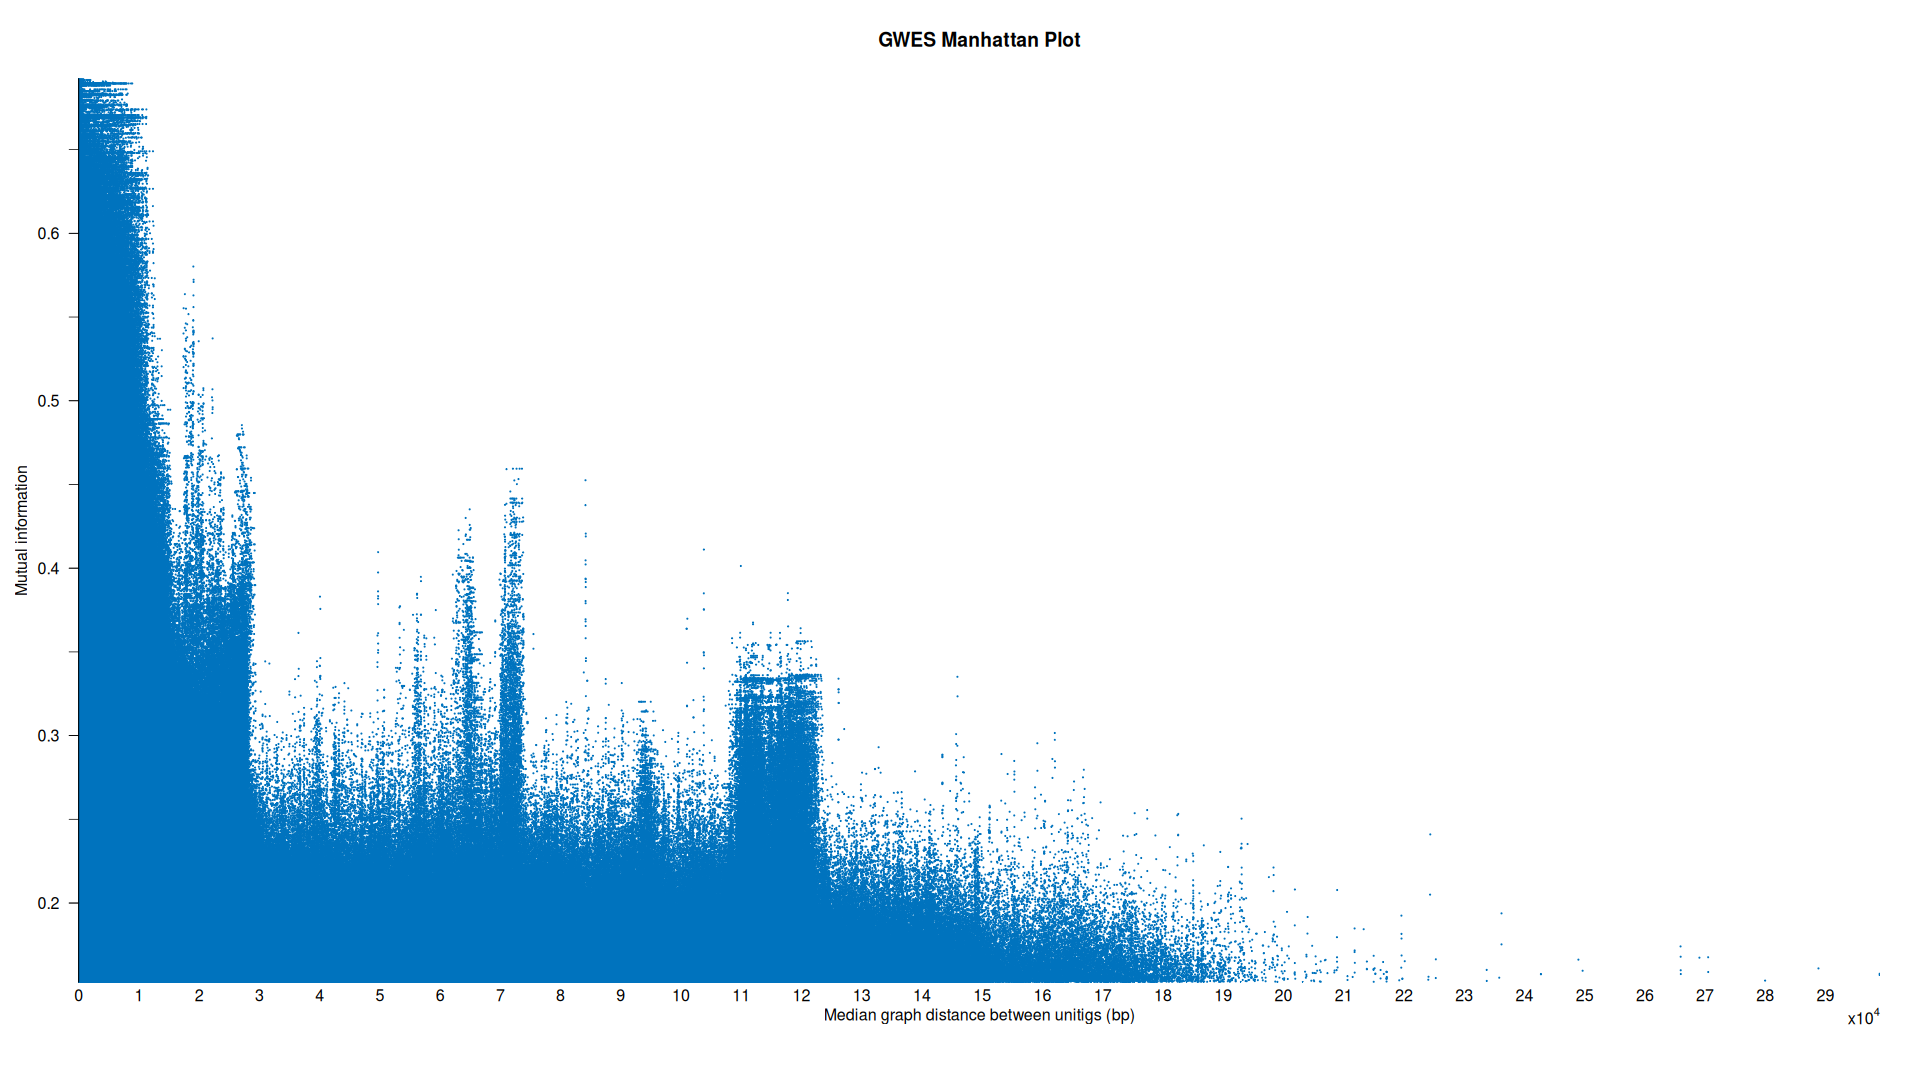
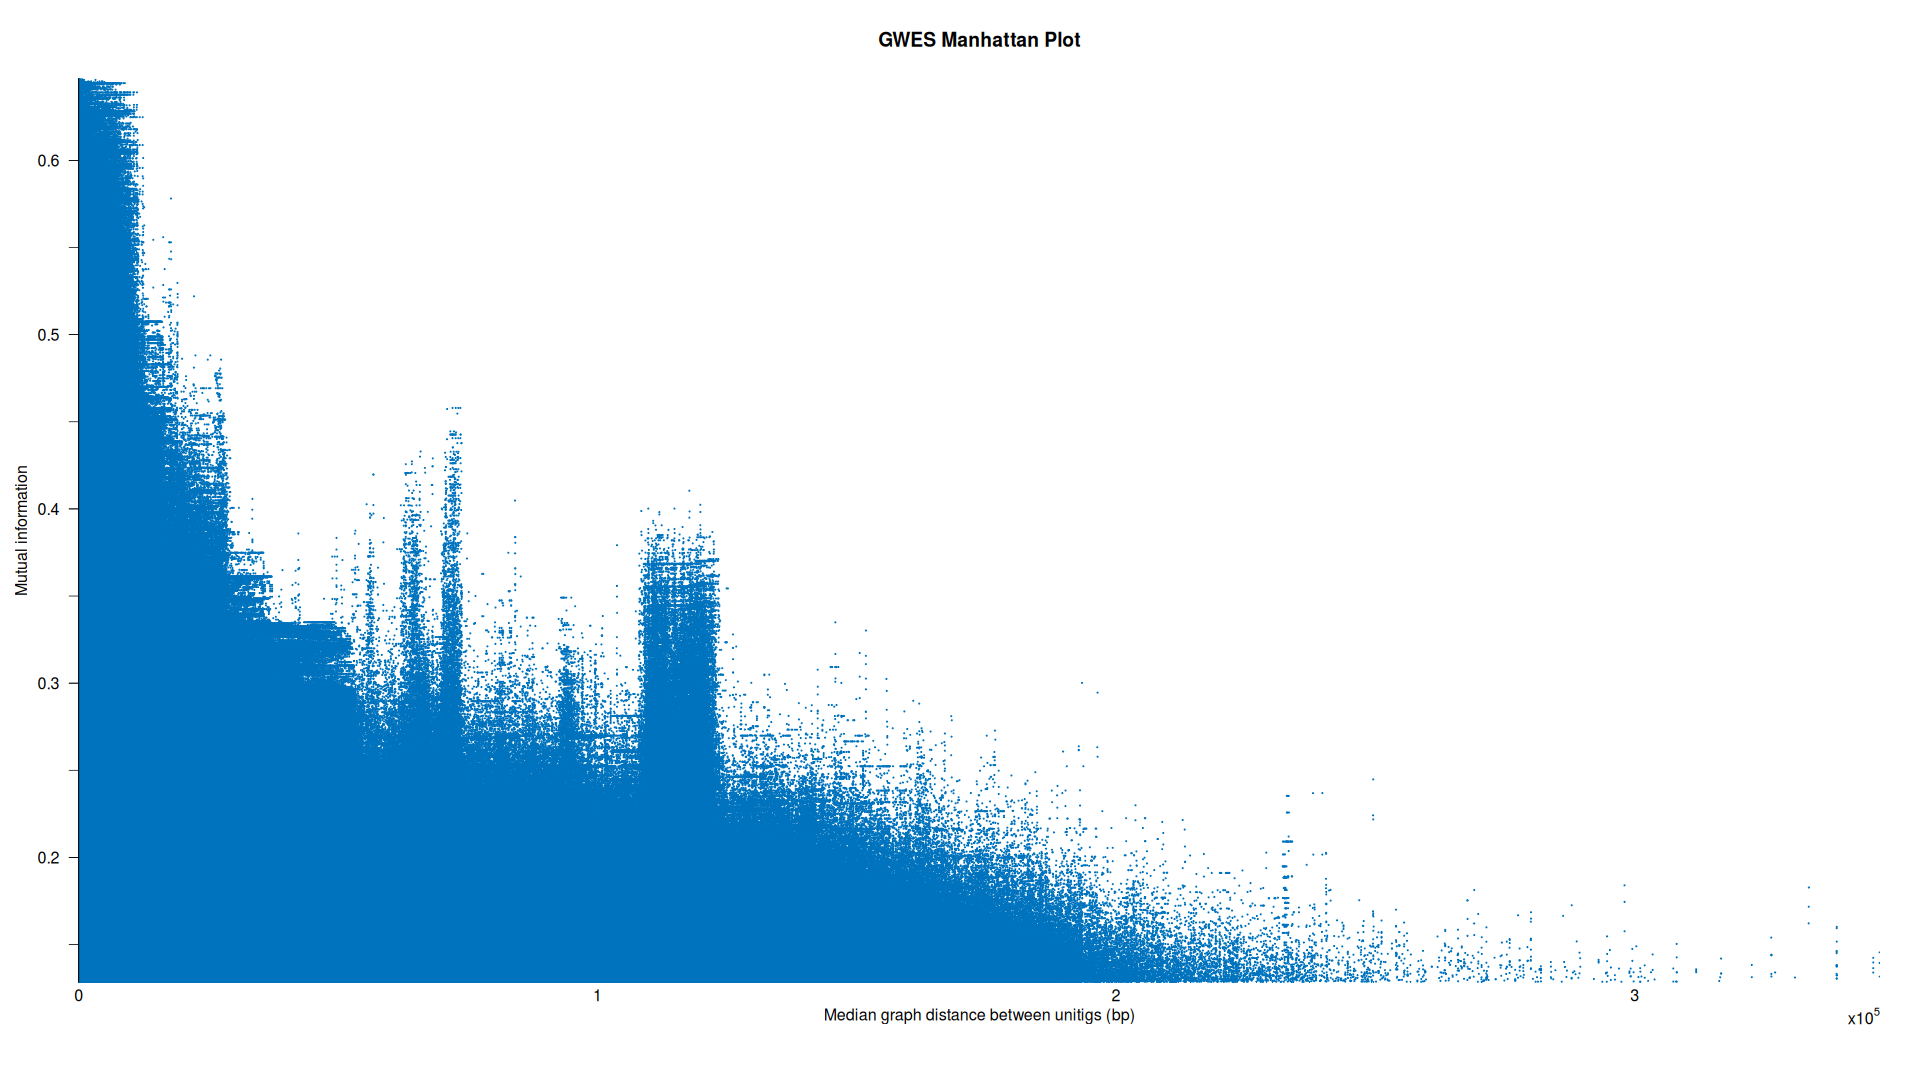
Update benchmarks and example plots

Changed region(s): [[0.0312, 0.0611, 0.8125, 0.9167]]

diff --git a/examples/README.md b/examples/README.md
@@ -10,6 +10,13 @@ assemblies is available
 Tiny test datasets for checking that the programs work correctly are available in the
 [test data directory](../test_data).
 
+## Table of contents
+
+- [Running the PAN-GWES pipeline](#running-the-pan-gwes-pipeline)
+  - [Example plots](#example-plots)
+- [Performance benchmarks](#performance-benchmarks)
+  - [v0.1.0–v1.0.0 comparison](#v010v100-comparison-2026-07-27)
+
 ## Running the PAN-GWES pipeline
 
 Run the following commands from your working directory, adjusting paths and program options as needed. Set the thread
@@ -22,7 +29,7 @@ ls /path/to/assemblies/* > efc_assemblies.txt
 ```
 
 2. Build a [GFA 1.0](https://github.com/GFA-spec/GFA-spec/blob/master/GFA1.md)-formatted compacted de Bruijn graph
-   with [Cuttlefish](https://github.com/COMBINE-lab/cuttlefish):
+   with [Cuttlefish](https://github.com/COMBINE-lab/cuttlefish), using your choice of k-mer length:
 
 ```
 # Increase the concurrently open file-handle limit as Cuttlefish produces a large number of temporary files.
@@ -98,23 +105,38 @@ For a graph-distance versus reference-genome-distance scatterplot, see the [plot
 
 ### Example plots
 
-The following example plots were drawn from the results:
+The following example plots were drawn from the results. The mean-distance plots are shown on the left and the
+median-distance plots on the right. Click any preview to open the full-size plot.
 
-- [GWES Manhattan plot - mean distance](plots/efc_k61_gwes_plot_mean_distance.png)
+**GWES Manhattan plots**
 
-  [![GWES Manhattan plot - mean distance preview](plots/previews/efc_k61_gwes_plot_mean_distance_preview.png)](plots/efc_k61_gwes_plot_mean_distance.png)
+<p align="center">
+  <a href="plots/efc_k61_gwes_plot_mean_distance.png">
+    <img src="plots/previews/efc_k61_gwes_plot_mean_distance_preview.png"
+         alt="GWES Manhattan plot - mean distance"
+         width="48%">
+  </a>
+  <a href="plots/efc_k61_gwes_plot_median_distance.png">
+    <img src="plots/previews/efc_k61_gwes_plot_median_distance_preview.png"
+         alt="GWES Manhattan plot - median distance"
+         width="48%">
+  </a>
+</p>
 
-- [Mean graph distance vs reference-genome distance plot](plots/efc_k61_mean_graph_distance_vs_reference_genome_distance_plot.png)
+**Graph-distance vs reference-genome distance scatter plots**
 
-  [![Mean graph distance vs reference-genome distance plot preview](plots/previews/efc_k61_mean_graph_distance_vs_reference_genome_distance_plot_preview.png)](plots/efc_k61_mean_graph_distance_vs_reference_genome_distance_plot.png)
-
-- [GWES Manhattan plot - median distance](plots/efc_k61_gwes_plot_median_distance.png)
-
-  [![GWES Manhattan plot - median distance preview](plots/previews/efc_k61_gwes_plot_median_distance_preview.png)](plots/efc_k61_gwes_plot_median_distance.png)
-
-- [Median graph distance vs reference-genome distance plot](plots/efc_k61_median_graph_distance_vs_reference_genome_distance_plot.png)
-
-  [![Median graph distance vs reference-genome distance plot preview](plots/previews/efc_k61_median_graph_distance_vs_reference_genome_distance_plot_preview.png)](plots/efc_k61_median_graph_distance_vs_reference_genome_distance_plot.png)
+<p align="center">
+  <a href="plots/efc_k61_mean_graph_distance_vs_reference_genome_distance_plot.png">
+    <img src="plots/previews/efc_k61_mean_graph_distance_vs_reference_genome_distance_plot_preview.png"
+         alt="Mean graph distance vs reference-genome distance"
+         width="48%">
+  </a>
+  <a href="plots/efc_k61_median_graph_distance_vs_reference_genome_distance_plot.png">
+    <img src="plots/previews/efc_k61_median_graph_distance_vs_reference_genome_distance_plot_preview.png"
+         alt="Median graph distance vs reference-genome distance"
+         width="48%">
+  </a>
+</p>
 
 ## Performance benchmarks
 
@@ -127,6 +149,8 @@ They were run on Ubuntu 24.04 (6.8.0-124-generic) on a system with an AMD Ryzen 
 
 The benchmarks used 375 **Enterococcus faecalis** genomes from the [EFC collection](../test_data/README.md#efc-dataset)
 and 3,069 **Streptococcus pneumoniae** genomes from the [Maela collection](../test_data/README.md#maela-dataset).
+The [GFA 1.0](https://github.com/GFA-spec/GFA-spec/blob/master/GFA1.md)-formatted cdBGs were constructed with
+[Cuttlefish](https://github.com/COMBINE-lab/cuttlefish) using a k-mer length of 61.
 
 Results for v1.0.0 are shown in **bold**.
 
@@ -155,24 +179,24 @@ runtime.
 
 | Dataset   |    Version | Threads |     Runtime | Peak memory usage |
 | --------- | ---------: | ------: | ----------: | ----------------: |
-| EFC       |     v0.1.0 |      16 |     21m 57s |          7.92 GiB |
-| **EFC**   | **v1.0.0** |  **16** | **03m 47s** |      **6.48 GiB** |
-| EFC       |     v0.1.0 |      32 |     16m 52s |          9.00 GiB |
-| **EFC**   | **v1.0.0** |  **32** | **03m 28s** |      **8.06 GiB** |
+| EFC       |     v0.1.0 |      16 |     21m 52s |          7.93 GiB |
+| **EFC**   | **v1.0.0** |  **16** | **03m 42s** |      **6.64 GiB** |
+| EFC       |     v0.1.0 |      32 |     16m 46s |          9.10 GiB |
+| **EFC**   | **v1.0.0** |  **32** | **03m 23s** |      **7.94 GiB** |
 | Maela     |     v0.1.0 |      32 |  1h 50m 49s |         11.65 GiB |
 | **Maela** | **v1.0.0** |  **32** | **16m 17s** |      **9.88 GiB** |
 
-Compared with the v0.1.0 benchmarks, v1.0.0 reduced runtime by 82% and 79% in the 16- and 32-thread EFC benchmarks,
+Compared with the v0.1.0 benchmarks, v1.0.0 reduced runtime by 83% and 80% in the 16- and 32-thread EFC benchmarks,
 respectively, and by 85% in the 32-thread Maela benchmark. Peak memory usage was also lower in the v1.0.0 benchmarks.
 
 ##### Median distances
 
 | Dataset   |    Version | Threads | Memory limit |        Runtime |
 | --------- | ---------: | ------: | -----------: | -------------: |
-| **EFC**   | **v1.0.0** |  **16** |   **20 GiB** |    **04m 37s** |
-| **EFC**   | **v1.0.0** |  **32** |   **20 GiB** |    **04m 21s** |
-| **EFC**   | **v1.0.0** |  **16** |   **56 GiB** |    **04m 13s** |
-| **EFC**   | **v1.0.0** |  **32** |   **56 GiB** |    **03m 51s** |
+| **EFC**   | **v1.0.0** |  **16** |   **20 GiB** |    **04m 30s** |
+| **EFC**   | **v1.0.0** |  **32** |   **20 GiB** |    **04m 20s** |
+| **EFC**   | **v1.0.0** |  **16** |   **56 GiB** |    **04m 05s** |
+| **EFC**   | **v1.0.0** |  **32** |   **56 GiB** |    **03m 50s** |
 | **Maela** | **v1.0.0** |  **32** |   **20 GiB** | **2h 22m 10s** |
 | **Maela** | **v1.0.0** |  **32** |   **56 GiB** |    **43m 27s** |
 
